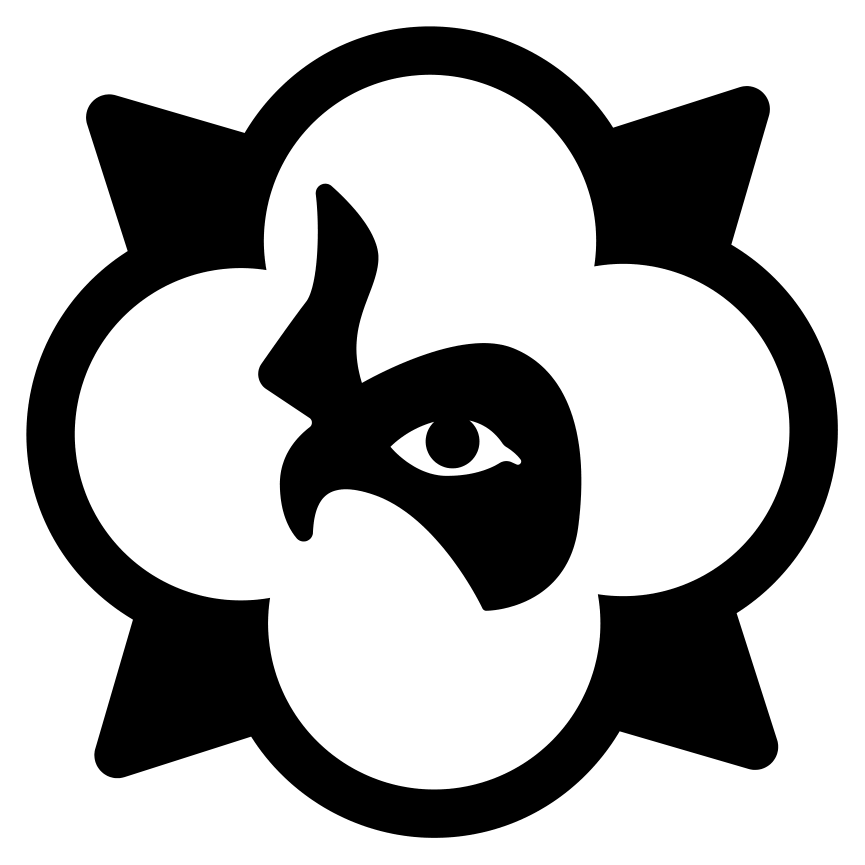
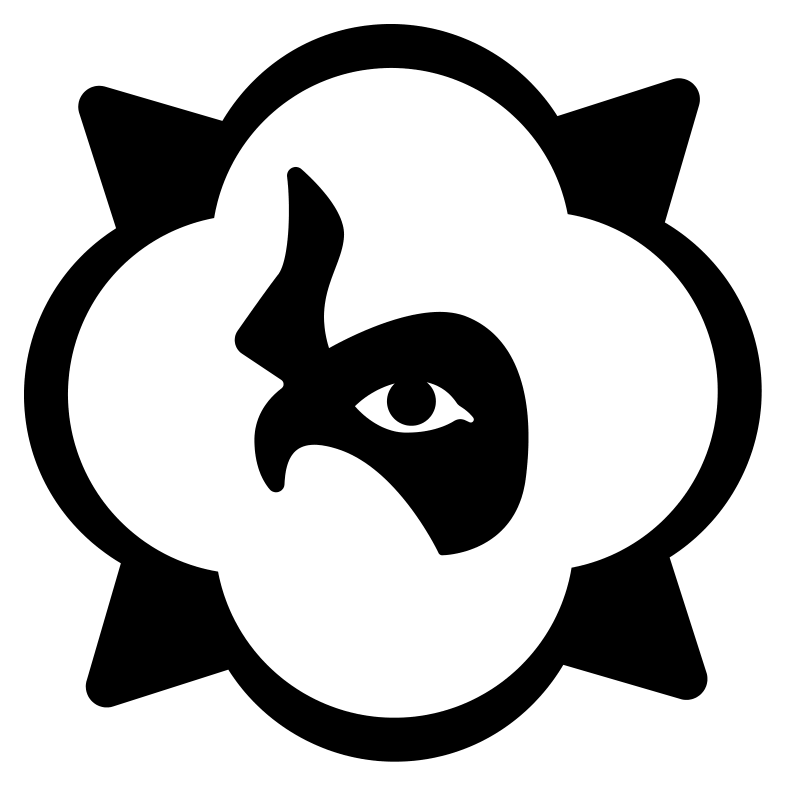
Fix the inner circles: notch was cut far too deep
The first build completed the inner lobes as a plain union of circles
concentric with the silhouette lobes. Two things were wrong with that.

The circles themselves were assumed rather than measured - taken as the outer
lobes minus the band width (r=75.52 at offset 86.92). Fitted from the source
ring they are r=76.085 at offset 86.335, which the ring follows to within
0.03pt mean.

More importantly the union is the wrong way to close them. The source ring does
not close as a circle union: at the diagonals it leaves the circles and weaves
out into the star points, reaching r~137-144. Unioning instead drives the notch
down to r~106, pulling the lobes apart and opening a large wedge at each
diagonal - visible as the inner shape being wrong.

Notch depth is therefore a free parameter the artwork does not fix. Add
--notch, which solves for the circle pair placing the notch at a given radius
while keeping the band at the lobe centres exactly --lane wide. Default 125,
between the plain union (106) and where the source ring still follows its own
circles (137); ship a 137 variant alongside.

Verified: band 21.986/21.980/21.980/21.980pt at the four cardinals, notch
bottoming exactly on target, C4 mismatch 0.000046%.

Claude-Session: https://claude.ai/code/session_01RAGNZ7EAYKxyanpJavHS6x

diff --git a/scripts/solidify_crest.py b/scripts/solidify_crest.py
@@ -48,9 +48,32 @@ def frame_params(OUTER):
                 twist=float(np.mean(ths)),
                 spread=dict(R=float(np.ptp(Rs)),d=float(np.ptp(offs)),twist=float(np.ptp(ths))))
 
-def lobe_centres(p):
-    return [(p['cx']+p['d']*np.cos(np.radians(p['twist']+k*90)),
-             p['cy']+p['d']*np.sin(np.radians(p['twist']+k*90))) for k in range(4)]
+def lobe_centres(p, offset=None):
+    d = p['d'] if offset is None else offset
+    return [(p['cx']+d*np.cos(np.radians(p['twist']+k*90)),
+             p['cy']+d*np.sin(np.radians(p['twist']+k*90))) for k in range(4)]
+
+def inner_circles(p, lane, notch):
+    """Inner lobe circles: cardinal band fixed at `lane`, notch depth `notch`.
+
+    The source ring's lobes are circles, but at the diagonals the ring leaves
+    them to weave into the star points, so completing them as a plain union
+    cuts the notch far deeper (r~106) than the artwork ever goes (r~137).
+    Depth is therefore a free parameter: solve for the circle pair that keeps
+    the cardinal band exactly `lane` wide while placing the notch at `notch`.
+    """
+    card = p['d'] + p['R'] - lane          # inner radius at the lobe centres
+    def notch_radius(D):
+        Rc = card - D
+        return D/np.sqrt(2) + np.sqrt(max(Rc*Rc - D*D/2.0, 0.0))
+    lo, hi = 1.0, card - 1.0               # notch_radius decreases as D grows
+    for _ in range(200):
+        mid = (lo + hi)/2
+        if notch_radius(mid) > notch: lo = mid
+        else: hi = mid
+    D = (lo + hi)/2
+    return D, card - D
+
 
 def lobes(p, radius=None, quad_segs=256):
     r=p['R'] if radius is None else radius
@@ -179,7 +202,7 @@ def write_pdf(path, groups, W, H):
 
 # --------------------------------------------------------------------- main
 
-def solidify(src_pdf, out_pdf, lane=22.0, margin=12.0):
+def solidify(src_pdf, out_pdf, lane=22.0, notch=125.0, margin=12.0):
     """Read the outlined crest, write the solid version."""
     import pymupdf
     from shapely.geometry import Polygon
@@ -245,7 +268,8 @@ def solidify(src_pdf, out_pdf, lane=22.0, margin=12.0):
     usable = [k for k, c in enumerate(canons) if len(c) == min(len(x) for x in canons)]
     sym = replicate(average_quadrants(canons, tuple(usable)), p['cx'], p['cy'])
 
-    quat = quatrefoil(lobe_centres(p), p['R'] - lane, p['cx'], p['cy'])
+    D, Rc = inner_circles(p, lane, notch)
+    quat = quatrefoil(lobe_centres(p, D), Rc, p['cx'], p['cy'])
     eagle = [conv(s) for s in subpaths(draw[5])][1]
     eye = [conv(s) for s in subpaths(draw[7])][0]
     pupil = [conv(s) for s in subpaths(draw[6])][0]
@@ -262,7 +286,7 @@ def solidify(src_pdf, out_pdf, lane=22.0, margin=12.0):
                         ([shift(eagle)], 'black'),
                         ([shift(eye)], 'white'),
                         ([shift(pupil)], 'black')], W, Hp)
-    return dict(params=p, page=(W, Hp), lane=lane,
+    return dict(params=p, page=(W, Hp), lane=lane, notch=notch, inner=(D, Rc),
                 segments=len(sym[1]) + len(quat[1]) + len(eagle[1]) + len(eye[1]) + len(pupil[1]))
 
 
@@ -273,12 +297,17 @@ if __name__ == '__main__':
     ap.add_argument('--lane', type=float, default=22.0,
                     help='width of the outer band in points (default 22, the '
                          'width implied by the original artwork)')
+    ap.add_argument('--notch', type=float, default=125.0,
+                    help='radius at which the diagonal notch between inner '
+                         'lobes bottoms out (default 125)')
     a = ap.parse_args()
-    info = solidify(a.input, a.output, a.lane)
+    info = solidify(a.input, a.output, a.lane, a.notch)
     p = info['params']
     print('lobe circles r=%.4f pt, centres %.4f pt out, pinwheel twist %.4f deg'
           % (p['R'], p['d'], p['twist']))
     print('agreement across the four lobes: r %.5f, offset %.5f, twist %.5f'
           % (p['spread']['R'], p['spread']['d'], p['spread']['twist']))
+    print('inner circles r=%.4f at offset %.4f (notch bottoms at r=%.1f)'
+          % (info['inner'][1], info['inner'][0], info['notch']))
     print('page %.3f x %.3f pt, %d segments, lane %.1f pt'
           % (info['page'][0], info['page'][1], info['segments'], info['lane']))

diff --git a/assets/traxnyc-crest/README.md b/assets/traxnyc-crest/README.md
@@ -7,7 +7,8 @@ outside, no hairlines.
 
 | File | What it is |
 | --- | --- |
-| `traxnyc-crest-solid.pdf` | 22 pt band — the width implied by the original artwork |
+| `traxnyc-crest-solid.pdf` | 22 pt band, notch 125 — the default |
+| `traxnyc-crest-solid-notch137.pdf` | same, with a shallower notch (rounder inner shape) |
 | `traxnyc-crest-solid-connected.pdf` | 34 pt band — wide enough that the eagle joins the frame |
 | `source-outlined.pdf` | The Illustrator original this was built from |
 
@@ -16,7 +17,7 @@ Both are 392.856 × 392.856 pt, 81 curve/line segments, ~5 KB, pure black fill.
 Reproduce with:
 
 ```sh
-python3 scripts/solidify_crest.py source-outlined.pdf out.pdf --lane 22
+python3 scripts/solidify_crest.py source-outlined.pdf out.pdf --lane 22 --notch 125
 ```
 
 ## What was wrong
@@ -52,6 +53,28 @@ of the true circles.
 The band is the silhouette with a quatrefoil hole, so it is one continuous band
 of uniform width the whole way round, star points included.
 
+## The inner circles
+
+The inner ring's lobes are circles — fitted from the source they are
+r = **76.085 pt** at offset **86.335 pt**, and the ring follows them to within
+**0.03 pt** mean. But the ring does *not* close as a union of those circles: at
+the diagonals it leaves them and weaves out into the star points, reaching
+r ≈ 137–144. Completing them as a plain union instead drives the notch down to
+r ≈ 106, which pulls the lobes apart and opens a large wedge at each diagonal.
+That was wrong in the first build.
+
+So the notch depth is a genuine free parameter, not something the artwork
+fixes. `--notch` sets it: the script solves for the circle pair that puts the
+notch at that radius while keeping the band at the lobe centres exactly `--lane`
+wide. The default 125 sits between the plain union (106) and the radius the
+source ring reaches where it still follows its circles (137).
+
+| `--notch` | inner circles | look |
+| --- | --- | --- |
+| 106 | r 76.1 at 86.3 | plain circle union — lobes too far apart |
+| **125** | **r 89.8 at 72.7** | **default** |
+| 137 | r 104.3 at 58.1 | rounder, lobes barely separated |
+
 ## Choosing the band width
 
 22 pt is the width the original artwork implies: sweeping the width and
@@ -71,7 +94,9 @@ Hence the two files: 22 pt for print, 34 pt if it has to be one connected piece.
 
 | Check | Result |
 | --- | --- |
-| Frame C4 symmetry, output geometry | 0.0000059% area mismatch under 90° rotation |
+| Frame C4 symmetry, output geometry | 0.000046% area mismatch under 90° rotation |
+| Band width at the four cardinals | 21.986 / 21.980 / 21.980 / 21.980 pt |
+| Notch bottom | exactly on target (125.00) |
 | Symmetrised silhouette vs. source | 0.00037% of area |
 | Emitted arcs vs. true circles | max 0.0033 pt |
 | Consolidated script vs. verified build | IoU 0.999997 at 432 dpi |
